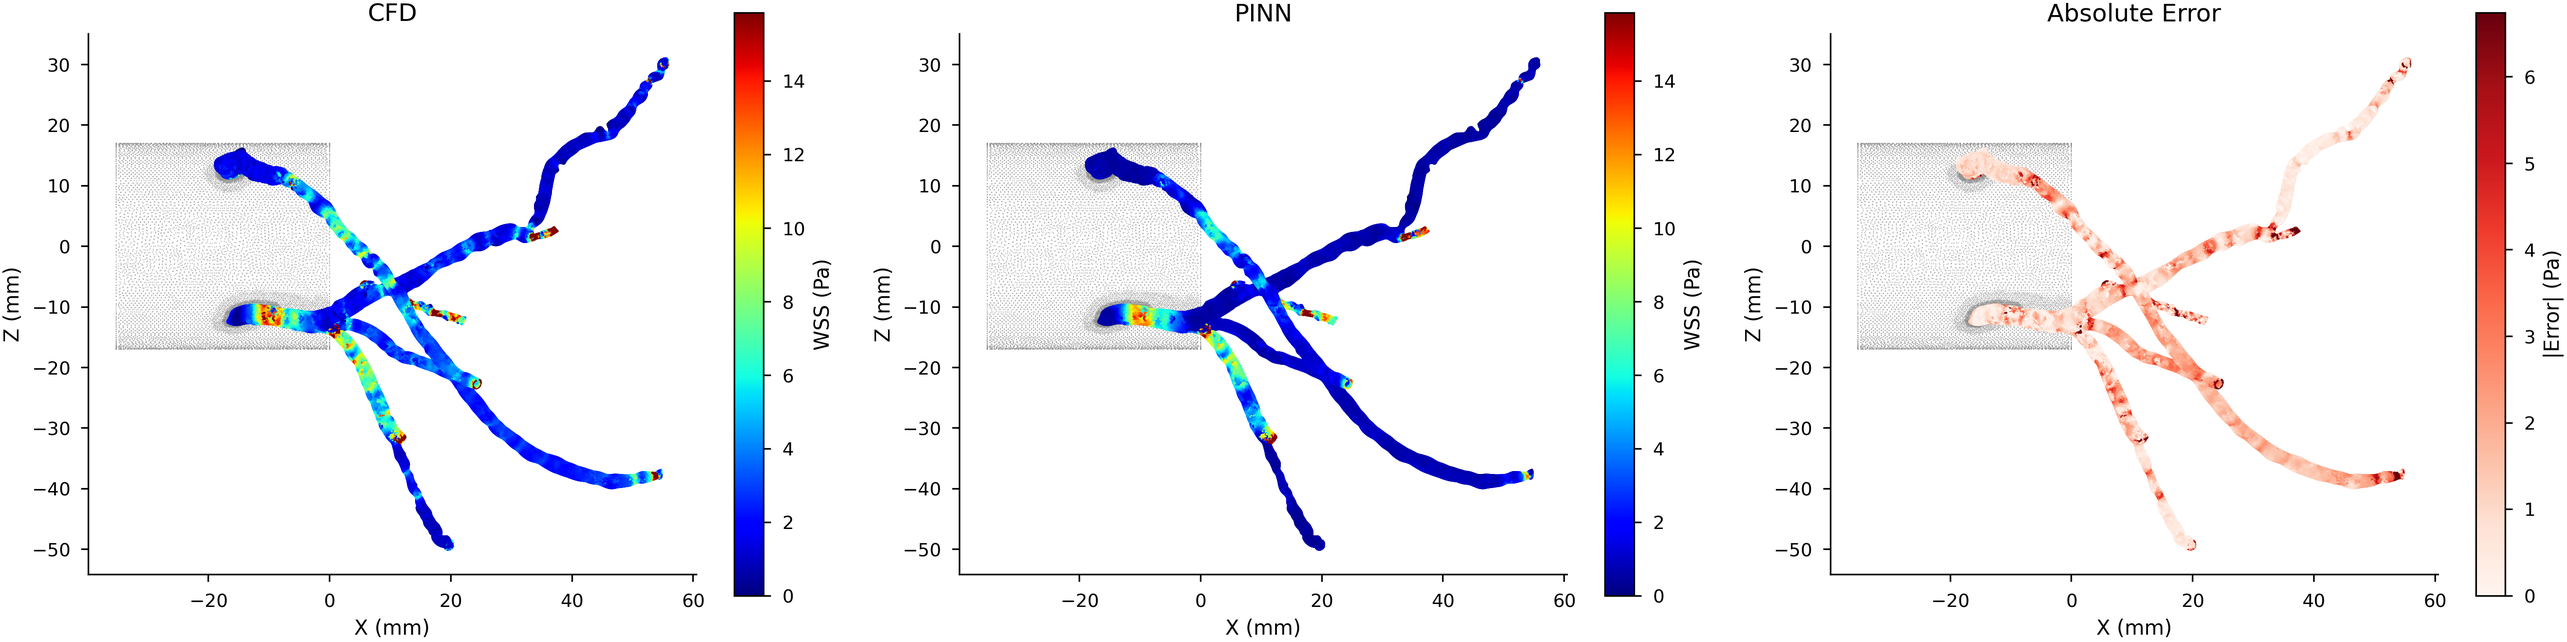
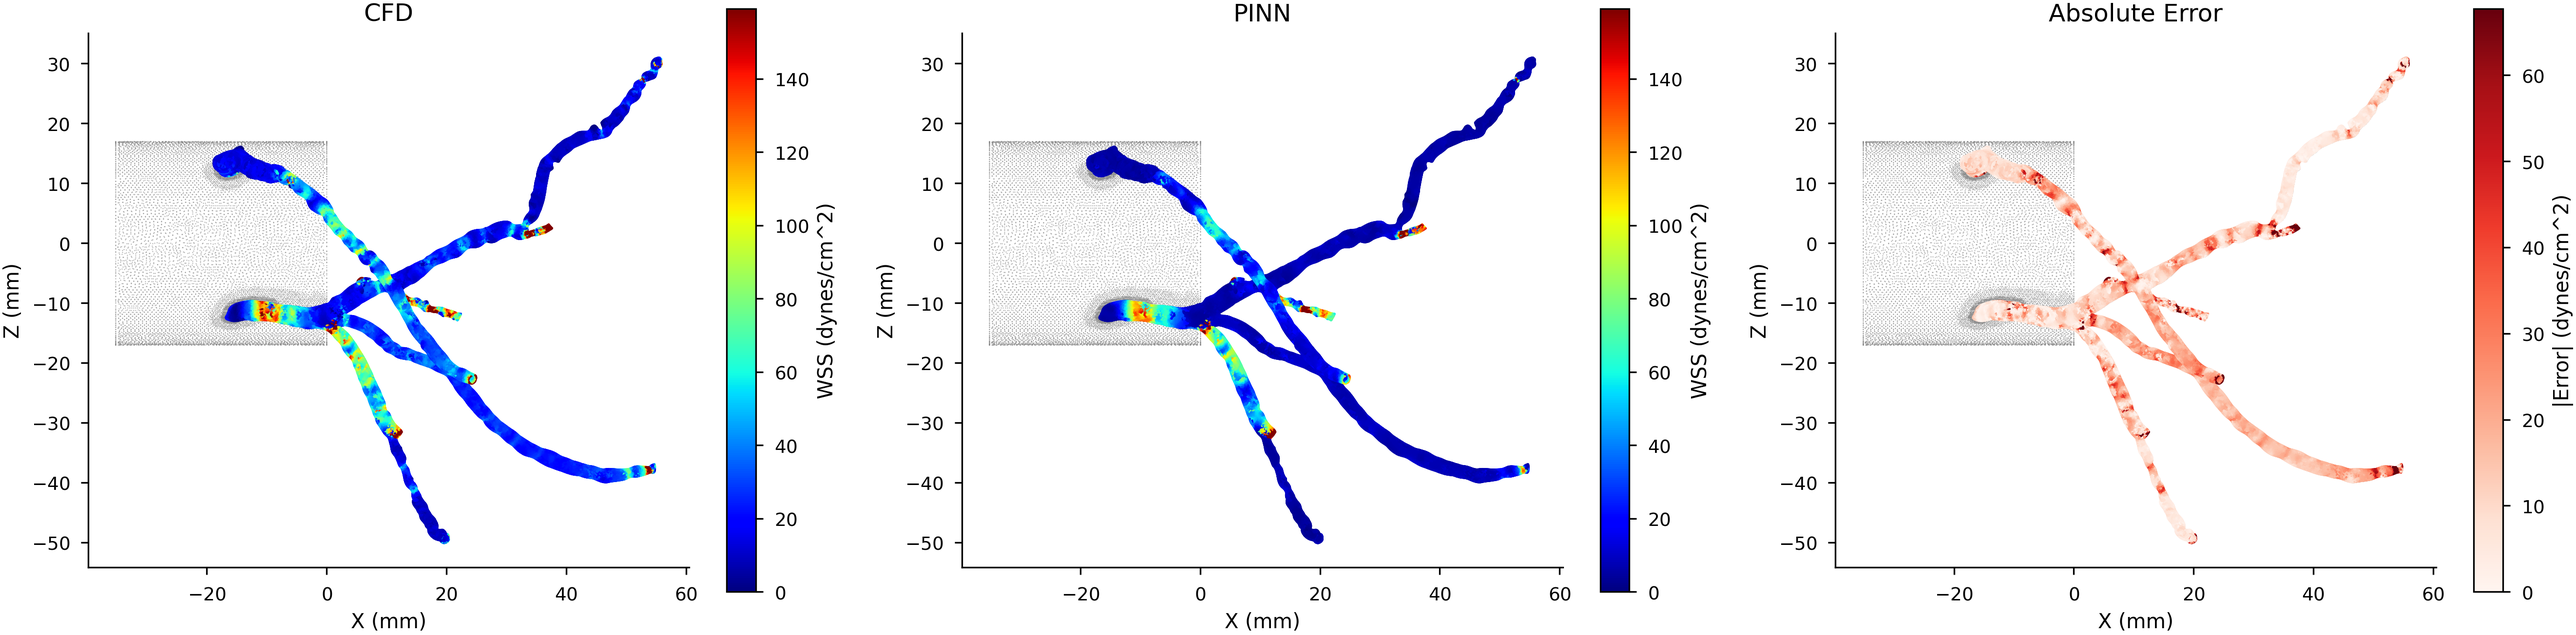
Refactor code structure for improved readability and maintainability

diff --git a/src/plots.py b/src/plots.py
@@ -249,6 +249,10 @@ def plot_wss_comparison(coords: np.ndarray, wss_true: np.ndarray, wss_pred: np.n
                         patient_id: str, save_path: Path, view: str,
                         x_idx: int, y_idx: int, xlabel: str, ylabel: str):
     """Create side-by-side WSS comparison: CFD vs PINN vs Error."""
+    # Convert Pa to dynes/cm^2 for presentation to match the CFD results.
+    wss_true = wss_true * 10.0
+    wss_pred = wss_pred * 10.0
+
     # Use 99th percentile for colorbar to handle outliers while showing full range
     vmax = np.percentile(np.concatenate([wss_true, wss_pred]), 99)
     error_vmax = np.percentile(np.abs(wss_pred - wss_true), 99)
@@ -256,7 +260,7 @@ def plot_wss_comparison(coords: np.ndarray, wss_true: np.ndarray, wss_pred: np.n
     fig, axes, rmse, nrmse = _create_comparison_plot(
         coords, wss_true, wss_pred, x_idx, y_idx, xlabel, ylabel,
         cmap_main='jet', cmap_error='Reds', vmin=0, vmax=vmax,
-        error_vmax=error_vmax, unit='Pa', title_prefix='WSS'
+        error_vmax=error_vmax, unit='dynes/cm^2', title_prefix='WSS'
     )
 
     plt.tight_layout()
@@ -393,6 +397,9 @@ def plot_per_vessel_wss(model: nn.Module, per_vessel_data: Dict[str, Dict[str, n
             wss_pred_nondim = outputs['wss'].cpu().numpy().flatten()
             # WSS: tau = tau* * T_ref
             wss_pred = wss_pred_nondim * dataset.T_ref
+
+        wss_true_plot = wss_true * 10.0
+        wss_pred_plot = wss_pred * 10.0
         
         # Clean vessel name for filename (replace spaces with underscores)
         vessel_filename = vessel_name.replace(' ', '_').replace('/', '_')
@@ -404,13 +411,13 @@ def plot_per_vessel_wss(model: nn.Module, per_vessel_data: Dict[str, Dict[str, n
         # Generate plot for each view
         for view, x_idx, y_idx, xlabel, ylabel in views:
             # Use 99th percentile for colorbar
-            vmax = np.percentile(np.concatenate([wss_true, wss_pred]), 99)
-            error_vmax = np.percentile(np.abs(wss_pred - wss_true), 99)
+            vmax = np.percentile(np.concatenate([wss_true_plot, wss_pred_plot]), 99)
+            error_vmax = np.percentile(np.abs(wss_pred_plot - wss_true_plot), 99)
             
             fig, axes, rmse, nrmse = _create_comparison_plot(
-                wall_coords, wss_true, wss_pred, x_idx, y_idx, xlabel, ylabel,
+                wall_coords, wss_true_plot, wss_pred_plot, x_idx, y_idx, xlabel, ylabel,
                 cmap_main='jet', cmap_error='Reds', vmin=0, vmax=vmax,
-                error_vmax=error_vmax, unit='Pa', title_prefix='WSS'
+                error_vmax=error_vmax, unit='dynes/cm^2', title_prefix='WSS'
             )
             
             plt.tight_layout()
@@ -577,7 +584,7 @@ def plot_full_patient_wss(patient_id: str, vessel_data: list,
     
     Shows Wall Shear Stress on all vessel walls combined:
     - Aorta: gray background (no WSS coloring)
-    - All vessels: colored by WSS (Pa)
+    - All vessels: colored by WSS (dynes/cm^2)
     
     Creates three-column figure: CFD | PINN | Absolute Error
     
@@ -622,6 +629,10 @@ def plot_full_patient_wss(patient_id: str, vessel_data: list,
     coords = np.vstack(all_coords)
     wss_true = np.concatenate(all_wss_true)
     wss_pred = np.concatenate(all_wss_pred)
+
+    # Convert Pa to dynes/cm^2 for presentation to match the CFD results.
+    wss_true = wss_true * 10.0
+    wss_pred = wss_pred * 10.0
     wss_error = np.abs(wss_pred - wss_true)
     
     # Calculate metrics
@@ -651,7 +662,7 @@ def plot_full_patient_wss(patient_id: str, vessel_data: list,
         axes[0].set_xlabel(f'{["X", "Y", "Z"][x_idx]} (mm)')
         axes[0].set_ylabel(f'{["X", "Y", "Z"][y_idx]} (mm)')
         axes[0].set_aspect('equal')
-        plt.colorbar(sc1, ax=axes[0], shrink=0.7, label='WSS (Pa)')
+        plt.colorbar(sc1, ax=axes[0], shrink=0.7, label='WSS (dynes/cm^2)')
 
         # PINN prediction
         sc2 = axes[1].scatter(x_plot, y_plot, c=wss_pred, cmap='jet', s=0.5, vmin=0, vmax=vmax)
@@ -659,7 +670,7 @@ def plot_full_patient_wss(patient_id: str, vessel_data: list,
         axes[1].set_xlabel(f'{["X", "Y", "Z"][x_idx]} (mm)')
         axes[1].set_ylabel(f'{["X", "Y", "Z"][y_idx]} (mm)')
         axes[1].set_aspect('equal')
-        plt.colorbar(sc2, ax=axes[1], shrink=0.7, label='WSS (Pa)')
+        plt.colorbar(sc2, ax=axes[1], shrink=0.7, label='WSS (dynes/cm^2)')
 
         # Absolute error
         sc3 = axes[2].scatter(x_plot, y_plot, c=wss_error, cmap='Reds', s=0.5, vmin=0, vmax=error_vmax)
@@ -667,7 +678,7 @@ def plot_full_patient_wss(patient_id: str, vessel_data: list,
         axes[2].set_xlabel(f'{["X", "Y", "Z"][x_idx]} (mm)')
         axes[2].set_ylabel(f'{["X", "Y", "Z"][y_idx]} (mm)')
         axes[2].set_aspect('equal')
-        plt.colorbar(sc3, ax=axes[2], shrink=0.7, label='|Error| (Pa)')
+        plt.colorbar(sc3, ax=axes[2], shrink=0.7, label='|Error| (dynes/cm^2)')
         
         plt.tight_layout()
         plt.savefig(full_patient_path / f'{patient_id}_full_patient_wss_{plane_name}.png',
@@ -700,6 +711,10 @@ _HOLDOUT_CATEGORY_COLOUR = {
     'SVG':      '#1565C0',  # blue
     'Diseased': '#C62828',  # red
 }
+_HOLDOUT_RHEOLOGY_COLOUR = {
+    'Newtonian': '#2F5597',
+    'Carreau--Yasuda': '#D67E2C',
+}
 _HOLDOUT_TABLE_LABELS = {
     'newtonian': 'tab:pinn_holdout',
     'carreau_yasuda': 'tab:pinn_holdout_cy',
@@ -711,7 +726,6 @@ _HOLDOUT_TABLE_COLUMNS = (
     ('R2_train', 3, False),
     ('R2_holdout', 3, False),
     ('pearson_holdout', 3, False),
-    ('RMSE_holdout', 2, False),
 )
 
 
@@ -724,7 +738,7 @@ def _holdout_read_metric(row, key, percentise=False):
 
 
 def _holdout_read_csv(csv_path: Path) -> Dict[str, dict]:
-    """Return mapping public_label -> metrics dict (NRMSE/RMSE/R^2/r)."""
+    """Return mapping public_label -> metrics dict (NRMSE/R^2/r)."""
     rows: Dict[str, dict] = {}
     with csv_path.open() as f:
         for r in csv.DictReader(f):
@@ -737,7 +751,6 @@ def _holdout_read_csv(csv_path: Path) -> Dict[str, dict]:
                 'R2_train':        _holdout_read_metric(r, 'R2_train'),
                 'R2_holdout':      _holdout_read_metric(r, 'R2_holdout'),
                 'pearson_holdout': _holdout_read_metric(r, 'pearson_holdout'),
-                'RMSE_holdout':    _holdout_read_metric(r, 'RMSE_holdout'),
             }
     return rows
 
@@ -813,6 +826,94 @@ def render_holdout_figure(rows: Dict[str, dict], out_dir: Path, stem: str) -> No
     print(f'  Wrote {png_path}')
 
 
+def render_holdout_comparison_figure(newtonian_rows: Dict[str, dict],
+                                     cy_rows: Dict[str, dict],
+                                     out_dir: Path,
+                                     stem: str = 'pinn_holdout_comparison') -> None:
+    """Render a compact Newtonian-vs-Carreau--Yasuda holdout comparison.
+
+    The manuscript table carries train-vs-holdout detail. This figure focuses
+    on the held-out metrics so it remains readable as a publication figure.
+    """
+    labels = [
+        lbl for lbl in _HOLDOUT_ROW_ORDER
+        if lbl in newtonian_rows and lbl in cy_rows
+    ]
+    x = np.arange(len(labels))
+    bar_width = 0.36
+
+    nrmse_newt = [newtonian_rows[lbl]['NRMSE_holdout'] for lbl in labels]
+    nrmse_cy = [cy_rows[lbl]['NRMSE_holdout'] for lbl in labels]
+    r2_newt = [newtonian_rows[lbl]['R2_holdout'] for lbl in labels]
+    r2_cy = [cy_rows[lbl]['R2_holdout'] for lbl in labels]
+
+    fig, (ax_l, ax_r) = plt.subplots(1, 2, figsize=(11.2, 4.2), sharex=True)
+
+    def _category_spans(ax):
+        start = 0
+        while start < len(labels):
+            category = _HOLDOUT_LABEL_TO_CATEGORY[labels[start]]
+            end = start
+            while end + 1 < len(labels) and _HOLDOUT_LABEL_TO_CATEGORY[labels[end + 1]] == category:
+                end += 1
+            ax.axvspan(
+                start - 0.5, end + 0.5,
+                color=_HOLDOUT_CATEGORY_COLOUR[category],
+                alpha=0.07,
+                linewidth=0,
+                zorder=0,
+            )
+            ax.text(
+                (start + end) / 2, 1.02, category,
+                transform=ax.get_xaxis_transform(),
+                ha='center', va='bottom', fontsize=8,
+                color=_HOLDOUT_CATEGORY_COLOUR[category],
+            )
+            start = end + 1
+
+    def _draw_pair(ax, vals_newt, vals_cy, ylabel, title):
+        _category_spans(ax)
+        ax.bar(
+            x - bar_width / 2, vals_newt, bar_width,
+            color=_HOLDOUT_RHEOLOGY_COLOUR['Newtonian'],
+            edgecolor='black', linewidth=0.6, label='Newtonian', zorder=2,
+        )
+        ax.bar(
+            x + bar_width / 2, vals_cy, bar_width,
+            color=_HOLDOUT_RHEOLOGY_COLOUR['Carreau--Yasuda'],
+            edgecolor='black', linewidth=0.6, label='Carreau--Yasuda', zorder=2,
+        )
+        ax.set_ylabel(ylabel)
+        ax.set_title(title, pad=20)
+        ax.set_xticks(x)
+        ax.set_xticklabels(labels, rotation=45, ha='right')
+        ax.grid(axis='y', alpha=0.3, linewidth=0.5, zorder=1)
+        ax.set_axisbelow(True)
+
+    _draw_pair(ax_l, nrmse_newt, nrmse_cy, 'Held-out WSS NRMSE (%)',
+               '(a) Held-out error')
+    ax_l.set_ylim(0, max(nrmse_newt + nrmse_cy) * 1.18)
+
+    _draw_pair(ax_r, r2_newt, r2_cy, r'Held-out $R^2$',
+               r'(b) Held-out $R^2$')
+    ax_r.set_ylim(0, 1.0)
+    ax_r.axhline(0.8, color='0.45', linestyle='--', linewidth=0.8, zorder=1)
+
+    handles, labels_legend = ax_l.get_legend_handles_labels()
+    fig.legend(handles, labels_legend, loc='lower center', ncol=2,
+               frameon=False, bbox_to_anchor=(0.5, -0.03))
+    plt.tight_layout(rect=(0, 0.06, 1, 1))
+
+    out_dir.mkdir(parents=True, exist_ok=True)
+    pdf_path = out_dir / f'{stem}.pdf'
+    png_path = out_dir / f'{stem}.png'
+    fig.savefig(pdf_path, bbox_inches='tight')
+    fig.savefig(png_path, dpi=220, bbox_inches='tight')
+    plt.close(fig)
+    print(f'  Wrote {pdf_path}')
+    print(f'  Wrote {png_path}')
+
+
 def _holdout_fmt_cell(value, decimals: int) -> str:
     if value is None or (isinstance(value, float) and math.isnan(value)):
         return '---'
@@ -849,7 +950,7 @@ def patch_holdout_latex_table(tex_path: Path, label_target: str,
     """Patch the data rows + Mean row of the named holdout table in main.tex."""
     pattern = re.compile(
         rf'(\\label\{{{re.escape(label_target)}\}}.*?'
-        r'\n & & Train & Holdout & Train & Holdout & Holdout & Holdout \\\\\n\\hline\n)'
+        r'\n & & Train & Holdout & Train & Holdout & Holdout \\\\\n\\hline\n)'
         r'(.*?)'
         r'(\n\\hline\n\\end\{tabular\})',
         re.DOTALL,
@@ -918,5 +1019,3 @@ def _holdout_main(argv=None):
 
 if __name__ == '__main__':
     _holdout_main()
-
-

diff --git a/src/evaluate.py b/src/evaluate.py
@@ -423,6 +423,7 @@ class PINNValidator:
             save_dir: Directory to save figures.
                 Defaults to figures/{patient_id}/.
         """
+        from src.dataset import load_aorta_data, load_full_anatomy
         from src.plots import plot_full_patient_wss
 
         if save_dir is None:
@@ -471,9 +472,13 @@ class PINNValidator:
 
             vessel_data.append(vessel_entry)
 
-        # Get aorta coordinates for background
-        aorta_data = self.per_vessel.get('Aorta', None)
-        df_aorta: np.ndarray | None = aorta_data['X'] if aorta_data is not None else None
+        # Use the complete anatomy as the grey context layer. Some training
+        # datasets do not expose an explicit "Aorta" vessel entry, so relying
+        # only on self.per_vessel can silently drop the background in figures.
+        df_aorta = load_full_anatomy(self.patient_id)
+        if df_aorta is None:
+            aorta_data = self.per_vessel.get('Aorta', None)
+            df_aorta = aorta_data['X'] if aorta_data is not None else load_aorta_data(self.patient_id)
 
         # Generate plots
         plot_full_patient_wss(self.patient_id, vessel_data, df_aorta, save_dir)
